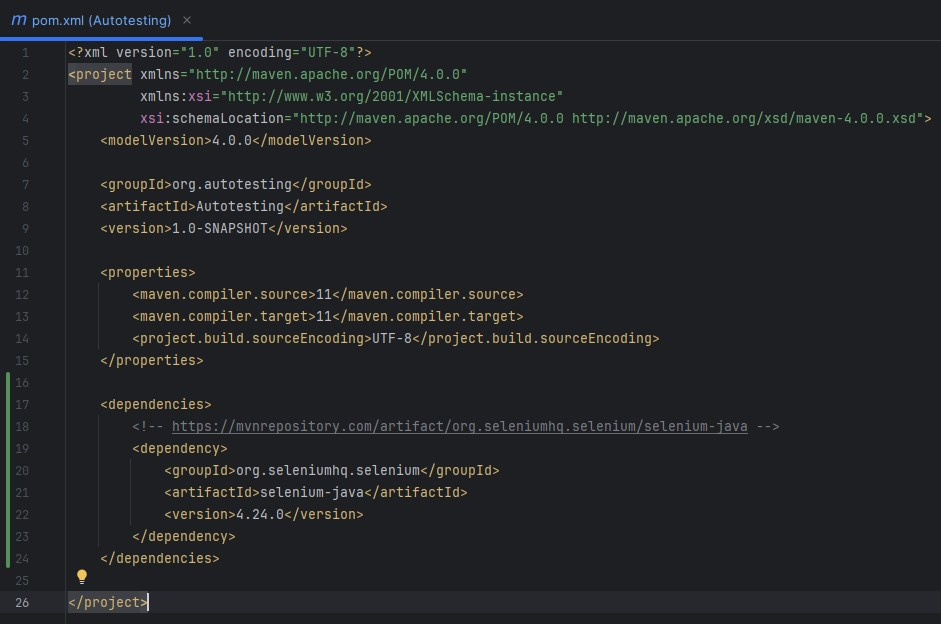
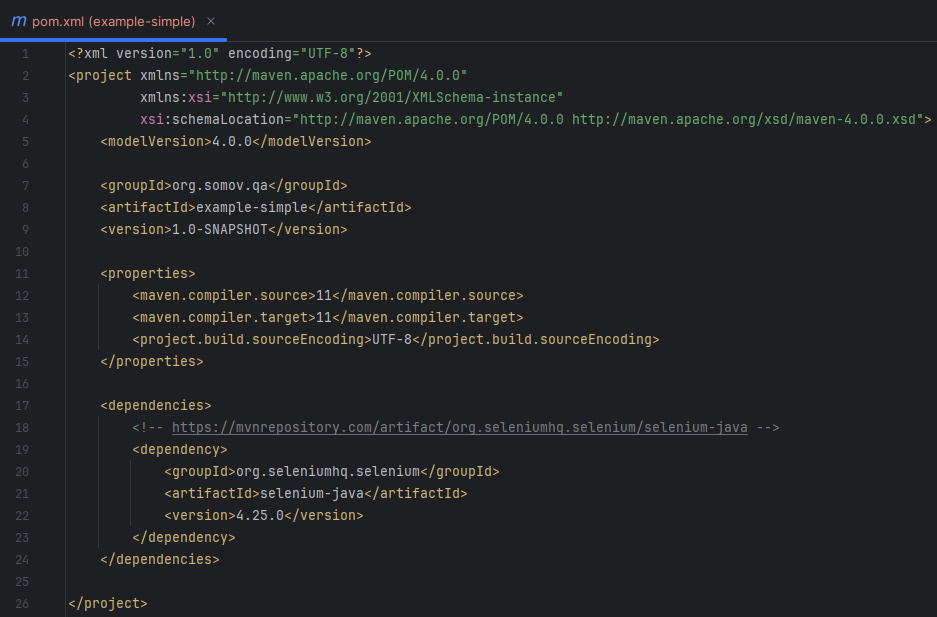
Создание проекта Selenium (Java) с простым автотестом

diff --git a/selenium/java/example-simple/src/main/java/org/somov/qa/Main.java b/selenium/java/example-simple/src/main/java/org/somov/qa/Main.java
@@ -1,4 +1,4 @@
-package org.autotesting;
+package org.somov.qa;
 
 import org.openqa.selenium.By;
 import org.openqa.selenium.WebDriver;

diff --git a/selenium/java/README.md b/selenium/java/README.md
@@ -17,13 +17,13 @@
 </p>
 
 <p>
-	<h4>Создание проекта и запуск автотеста:</h2>
-	<ul>
+	<h4>Создание проекта и запуск простого автотеста:</h2>
+	<ol>
 		<li>Скачать и установить <a href="https://www.jetbrains.com/idea/download/other.html">IntelliJ IDEA Community Edition</a></li>
 		<li>Скачать и установить <a href="https://www.oracle.com/java/technologies/javase/jdk11-archive-downloads.html">Java SE Development Kit 11</a></li>
-		<li>В редакторе IntelliJ IDEA создаем новый проект Maven с выбранным SDK: Oracle OpenJDK 11
+		<li>В редакторе IntelliJ IDEA создаем новый проект example-simple по системе Maven с выбранным SDK: Oracle OpenJDK 11
 			<p align="left">
-				<img src="https://github.com/Somov-QA/Practice-Automation-Testing-2024/blob/main/images/java_new_project.jpg">
+				<img src="https://github.com/Somov-QA/Practice-Automation-Testing-2024/blob/main/_images/java_new_project.jpg">
 			</p>
 		</li>
 		<li>Подключить библиотеку Selenium к проекту <a href="https://mvnrepository.com/artifact/org.seleniumhq.selenium/selenium-java">https://mvnrepository.com/artifact/org.seleniumhq.selenium/selenium-java</a>
@@ -31,16 +31,16 @@
 < dependency >
 	< groupId >org.seleniumhq.selenium< /groupId >
 	< artifactId >selenium-java< /artifactId >
-	< version >4.24.0< /version >
+	< version >4.25.0< /version >
 < /dependency >
 			</code></pre>
 		</li>
 		<li>Выполнить загрузку библиотеки
 			<p align="left">
-				<img src="https://github.com/Somov-QA/Practice-Automation-Testing-2024/blob/main/images/java_load_maven_selenium.jpg">
+				<img src="https://github.com/Somov-QA/Practice-Automation-Testing-2024/blob/main/_images/java_load_maven_selenium.jpg">
 			</p>
 			<p align="left">
-				<img src="https://github.com/Somov-QA/Practice-Automation-Testing-2024/blob/main/images/java_pom.jpg">
+				<img src="https://github.com/Somov-QA/Practice-Automation-Testing-2024/blob/main/_images/_java_pom.jpg">
 			</p>
 		</li>
 		<li>В файле Main.java описать автотест следующим образом
@@ -66,18 +66,18 @@ driver.close();
 driver.quit();
 			</code></pre>
 			<p align="left">
-				<img src="https://github.com/Somov-QA/Practice-Automation-Testing-2024/blob/main/images/java_test_main.jpg">
+				<img src="https://github.com/Somov-QA/Practice-Automation-Testing-2024/blob/main/_images/java_test_main.jpg">
 			</p>
 		</li>
 		<li>Запустить автотест нажав кнопку Run в IntelliJ IDEA
 			<p align="left">
-				<img src="https://github.com/Somov-QA/Practice-Automation-Testing-2024/blob/main/images/java_test_run.jpg">
+				<img src="https://github.com/Somov-QA/Practice-Automation-Testing-2024/blob/main/_images/java_test_run.jpg">
 			</p>
 		</li>
 		<li>Результат автотеста в консоли IntelliJ IDEA
 			<p align="left">
-				<img src="https://github.com/Somov-QA/Practice-Automation-Testing-2024/blob/main/images/java_test_console.jpg">
+				<img src="https://github.com/Somov-QA/Practice-Automation-Testing-2024/blob/main/_images/java_test_console.jpg">
 			</p>
 		</li>
-	</ul>
+	</ol>
 </p>

diff --git a/selenium/javascript/README.md b/selenium/javascript/README.md
@@ -21,7 +21,7 @@
 </p>
 
 <p>
-	<h4>Создание проекта и запуск автотеста:</h2>
+	<h4>Создание проекта и запуск простого автотеста:</h2>
 	<ol>
 		<li>Скачать и установить <a href="https://code.visualstudio.com/">Visual Studio Code</a></li>
 		<li>Скачать и установить <a href="https://nodejs.org/en/download/prebuilt-installer">NodeJS</a></li>
